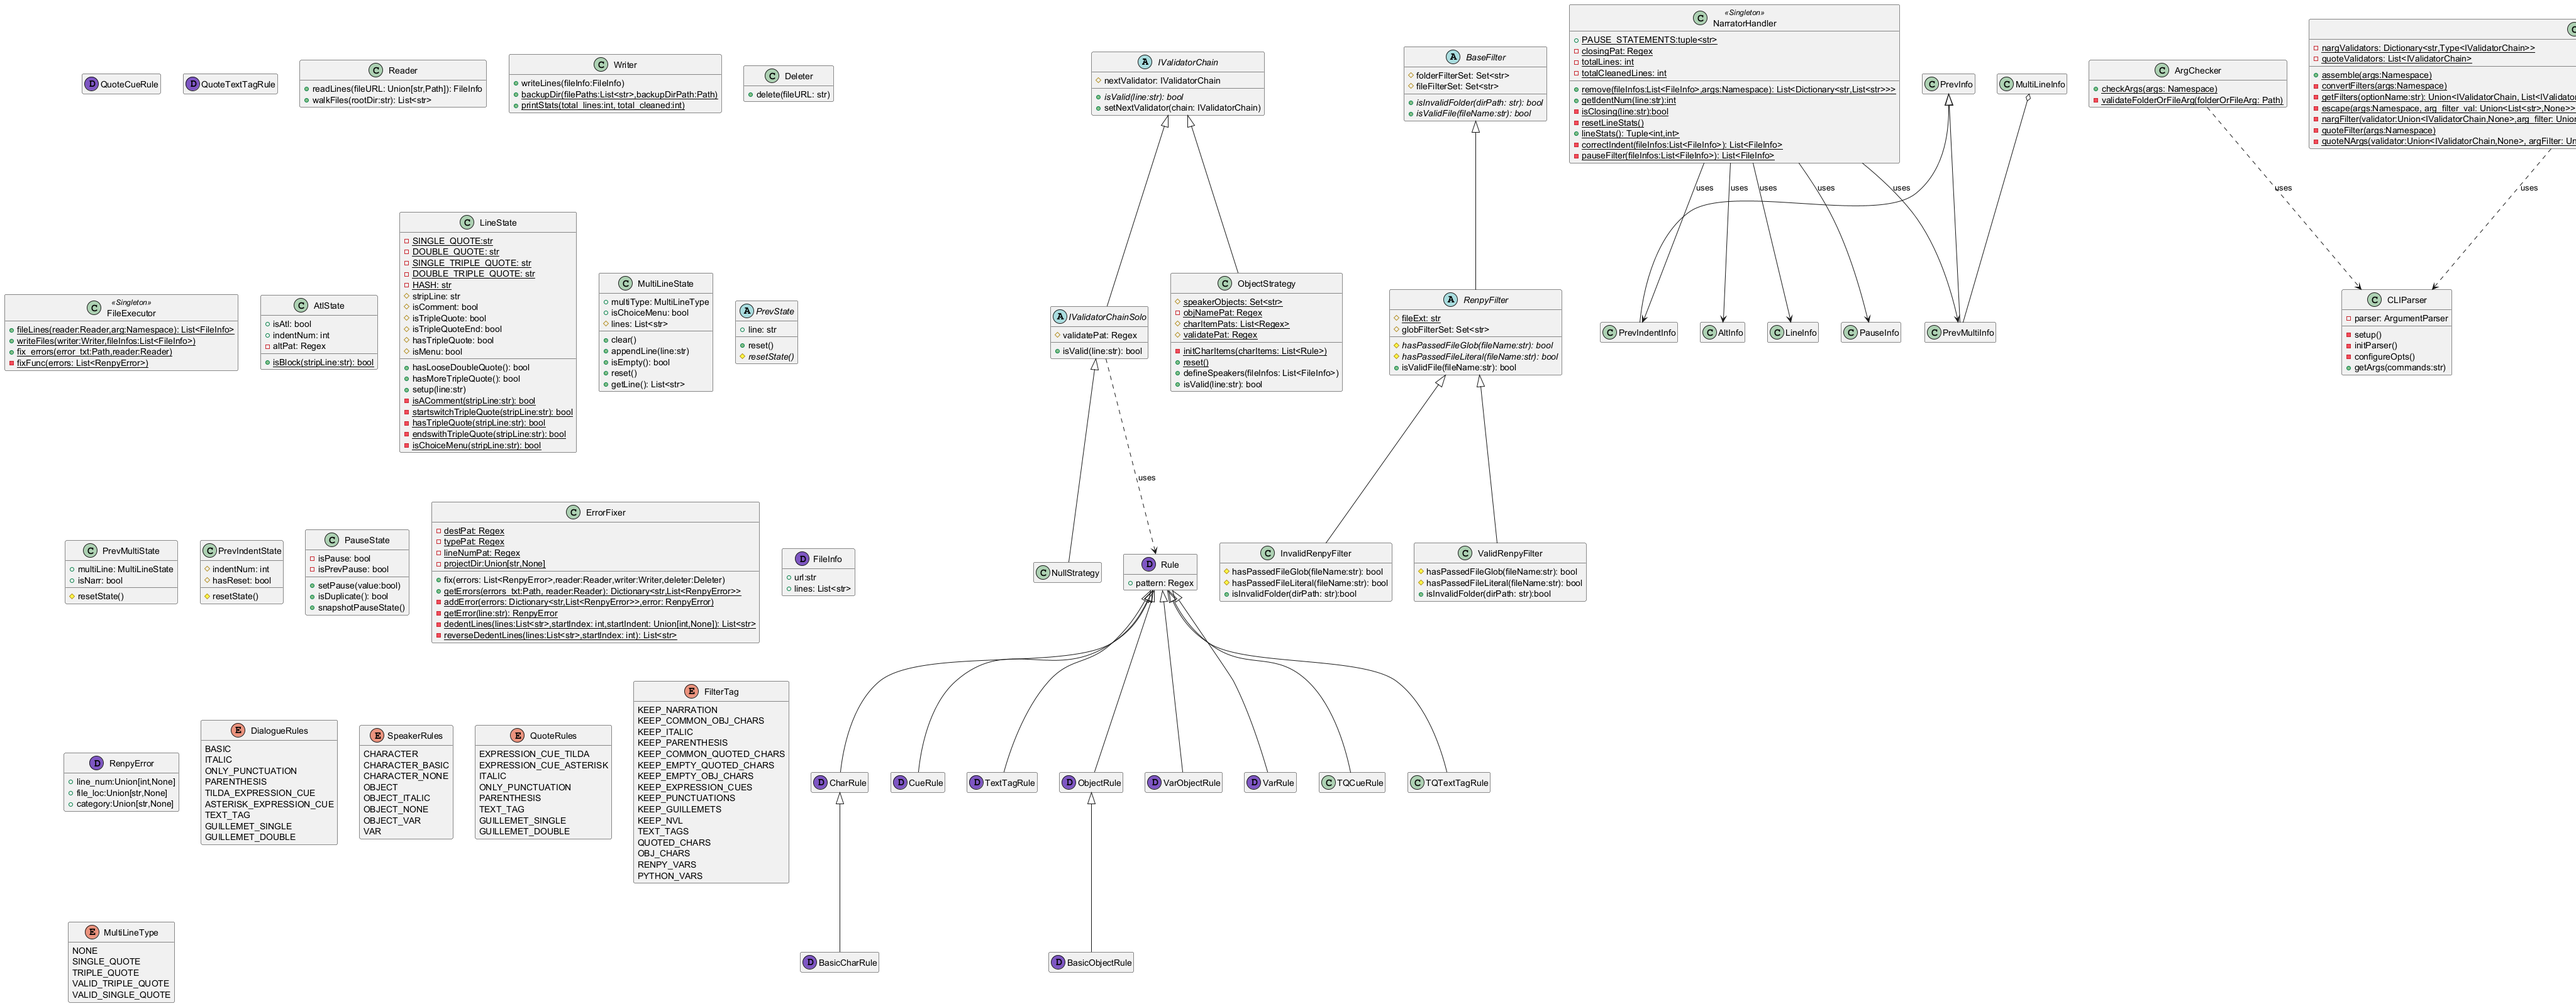
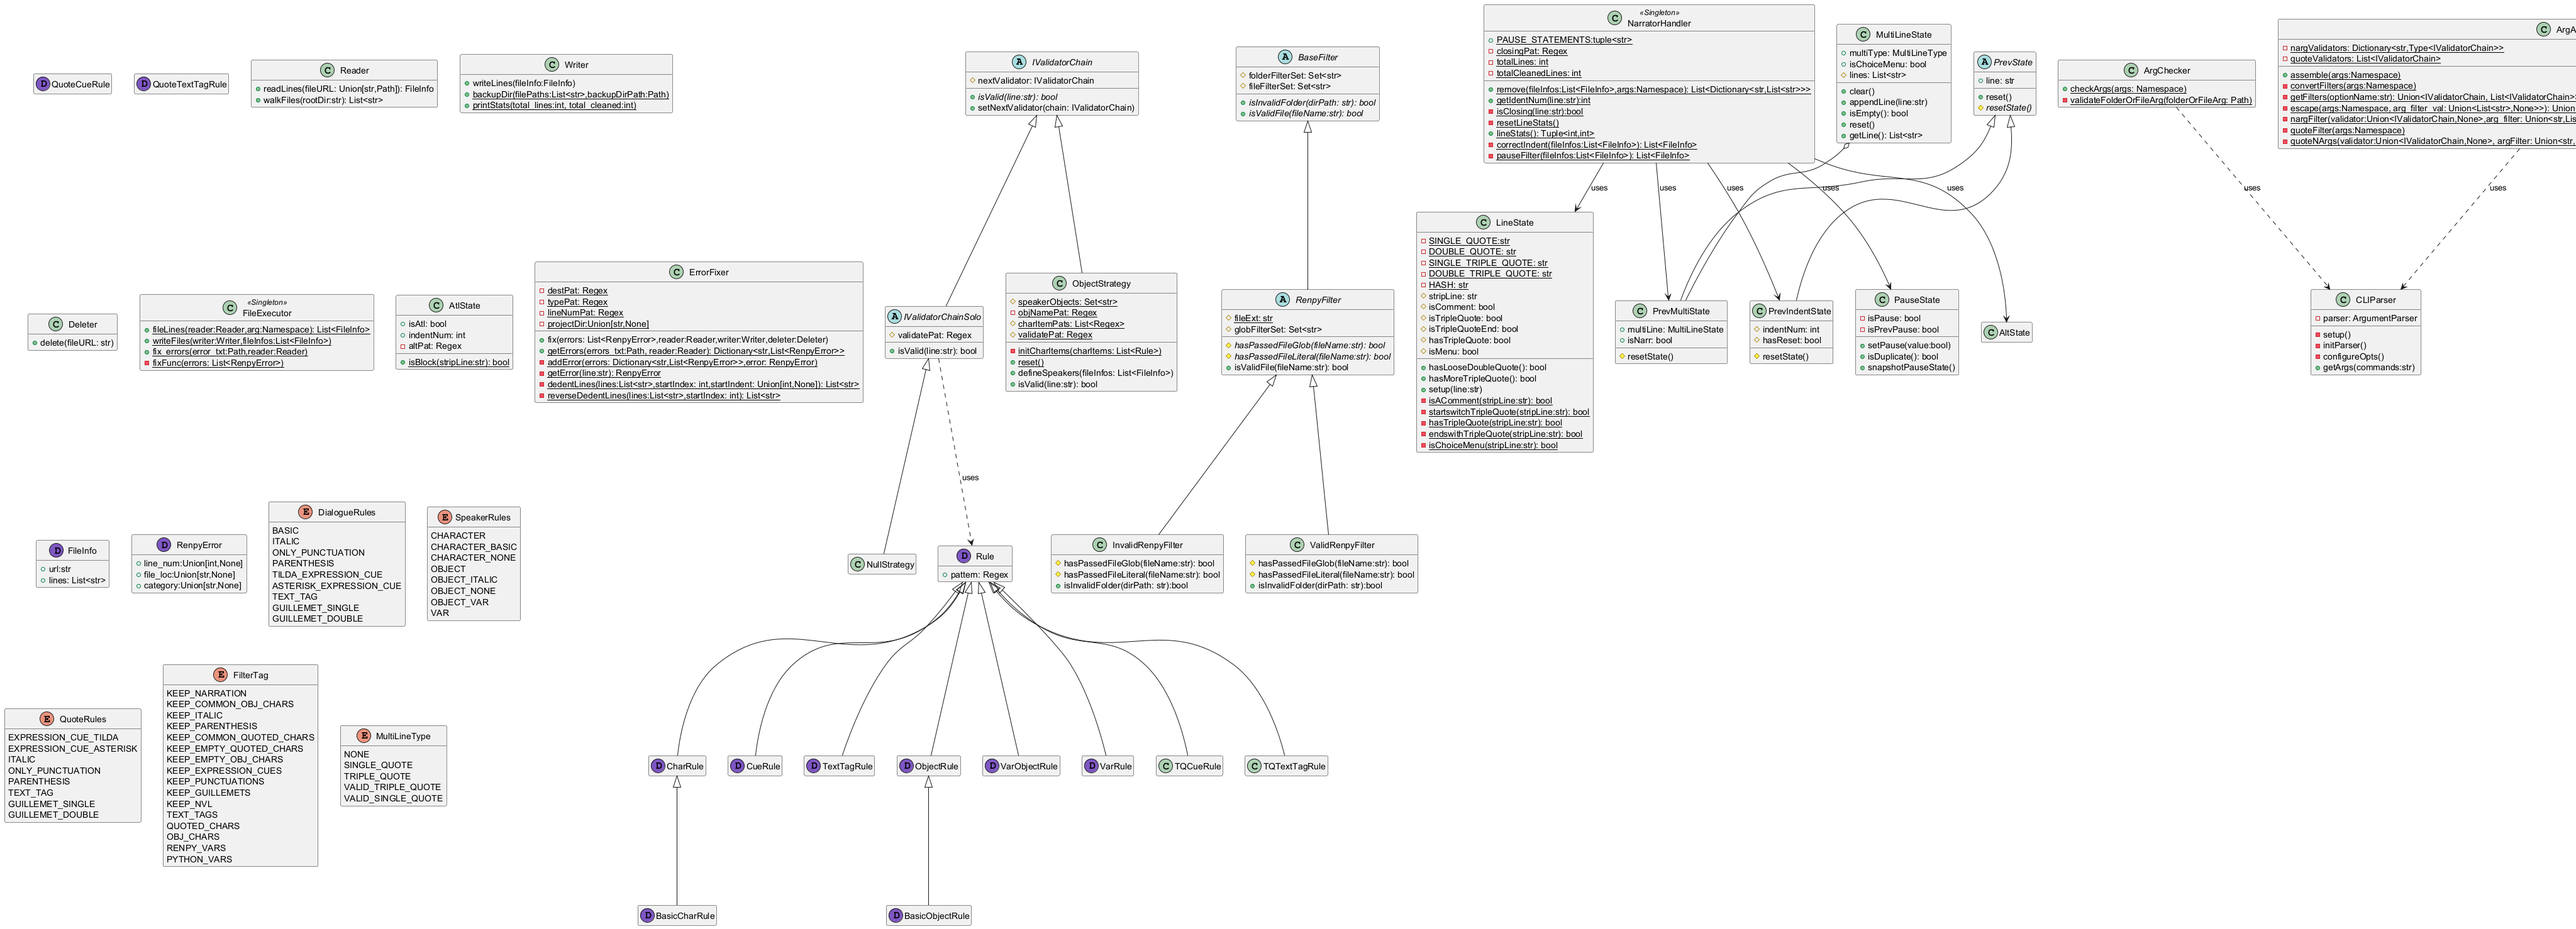
chore: version increment

diff --git a/src/lib/arg/cli_parser.py b/src/lib/arg/cli_parser.py
@@ -20,7 +20,7 @@ class CLIParser:
     """
 
     def __init__(self):
-        self.__version_num = "4.5.1"
+        self.__version_num = "5.0.0"
         self.__setup()
 
     def __setup(self):
@@ -242,14 +242,14 @@ class CLIParser:
             "--rv",
             metavar="RENPY_VARIABLE_NAMES",
             nargs="*",
-            help="Removes speaker(s) by their variable name defined by Ren'Py syntax, 'define' or 'default'"
+            help="Removes speaker(s) by their variable name 'defined' by Ren'Py syntax, 'define' or 'default'"
         )
         self.__add_filter_arg(
             FilterTag.PYTHON_VARS.value,
             "--pv",
             metavar="PYTHON_VARIABLE_NAMES",
             nargs="*",
-            help="Removes speaker(s) by their variable name defined by Python syntax, '$'"
+            help="Removes speaker(s) by their variable name 'defined' by Python syntax, '$'"
         )
 
     def __add_no_filters(self, optnames: dict[str, str]):
